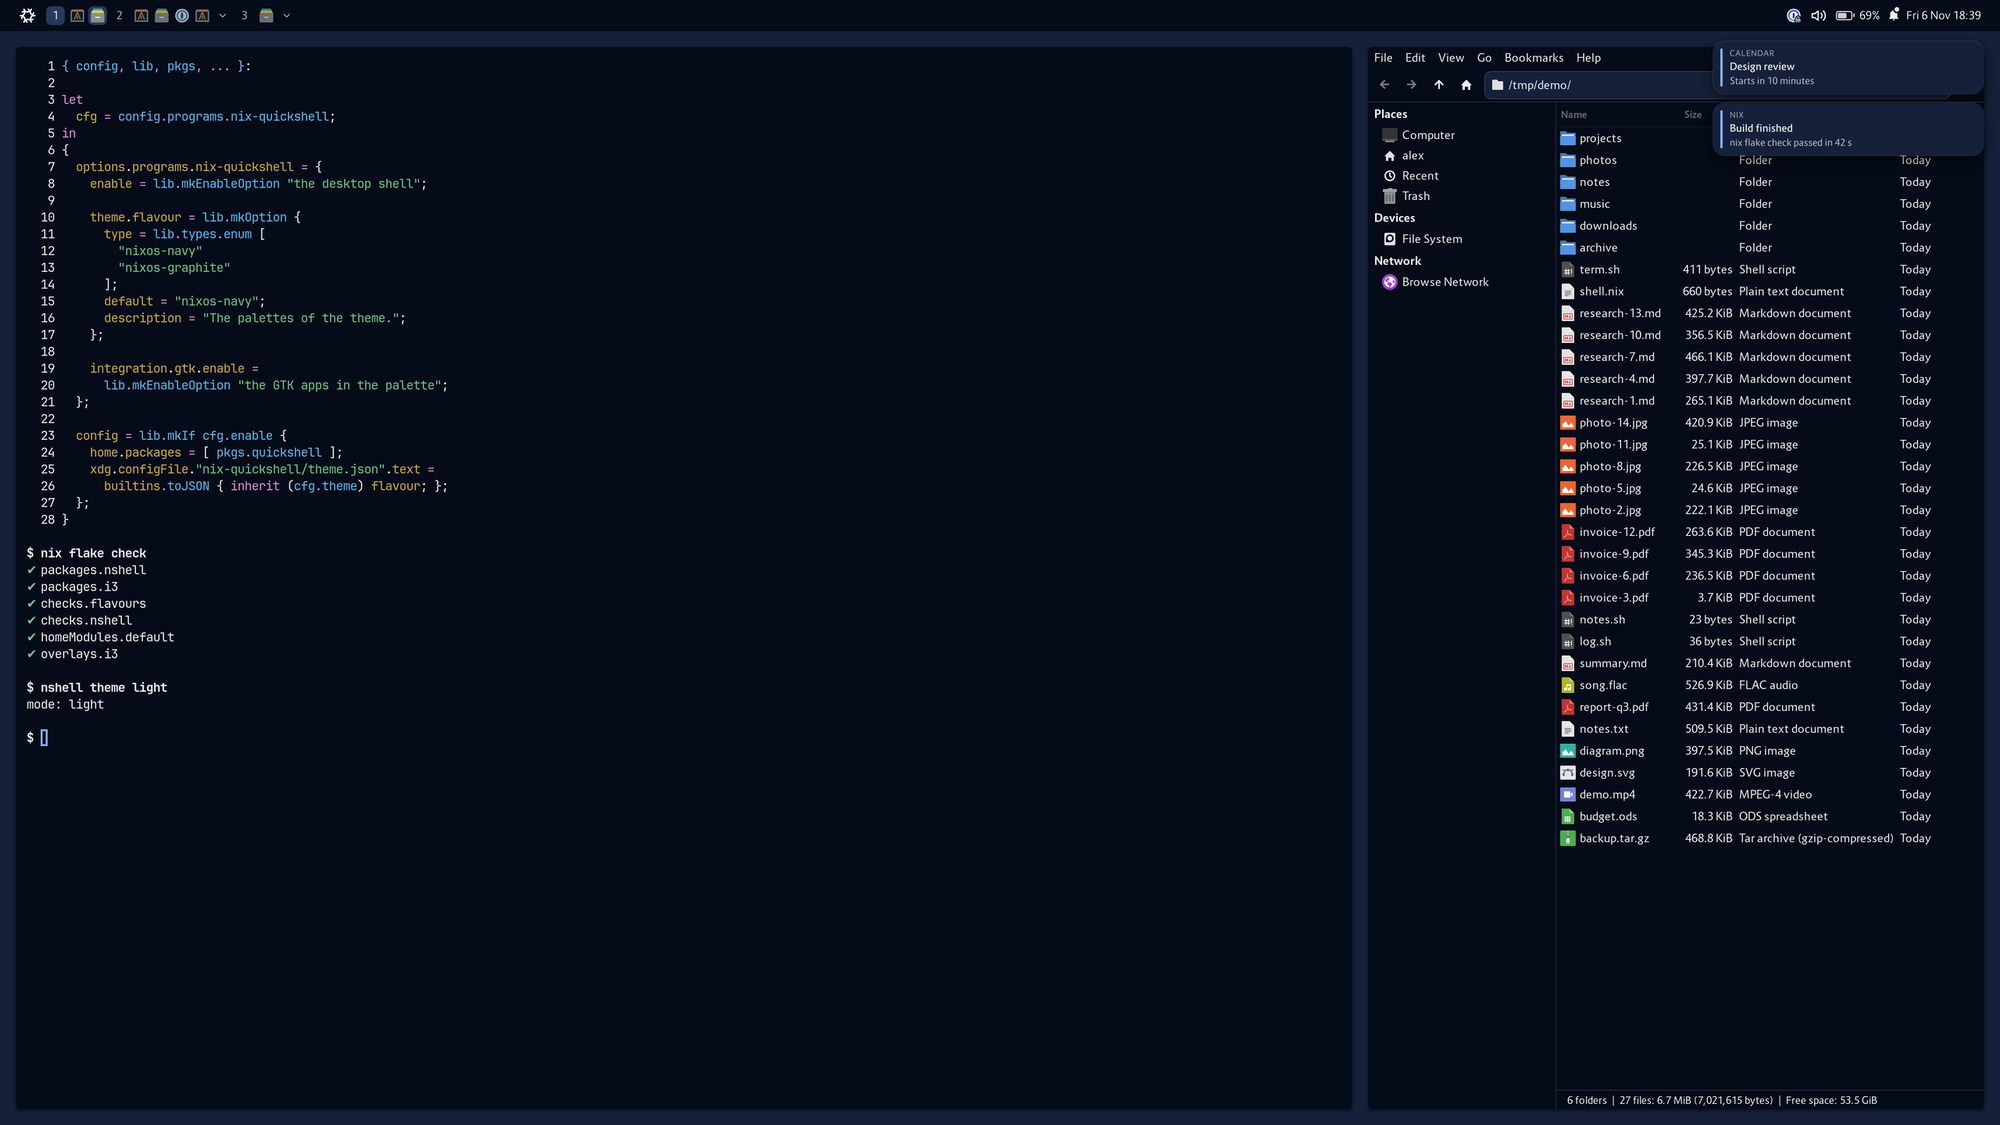
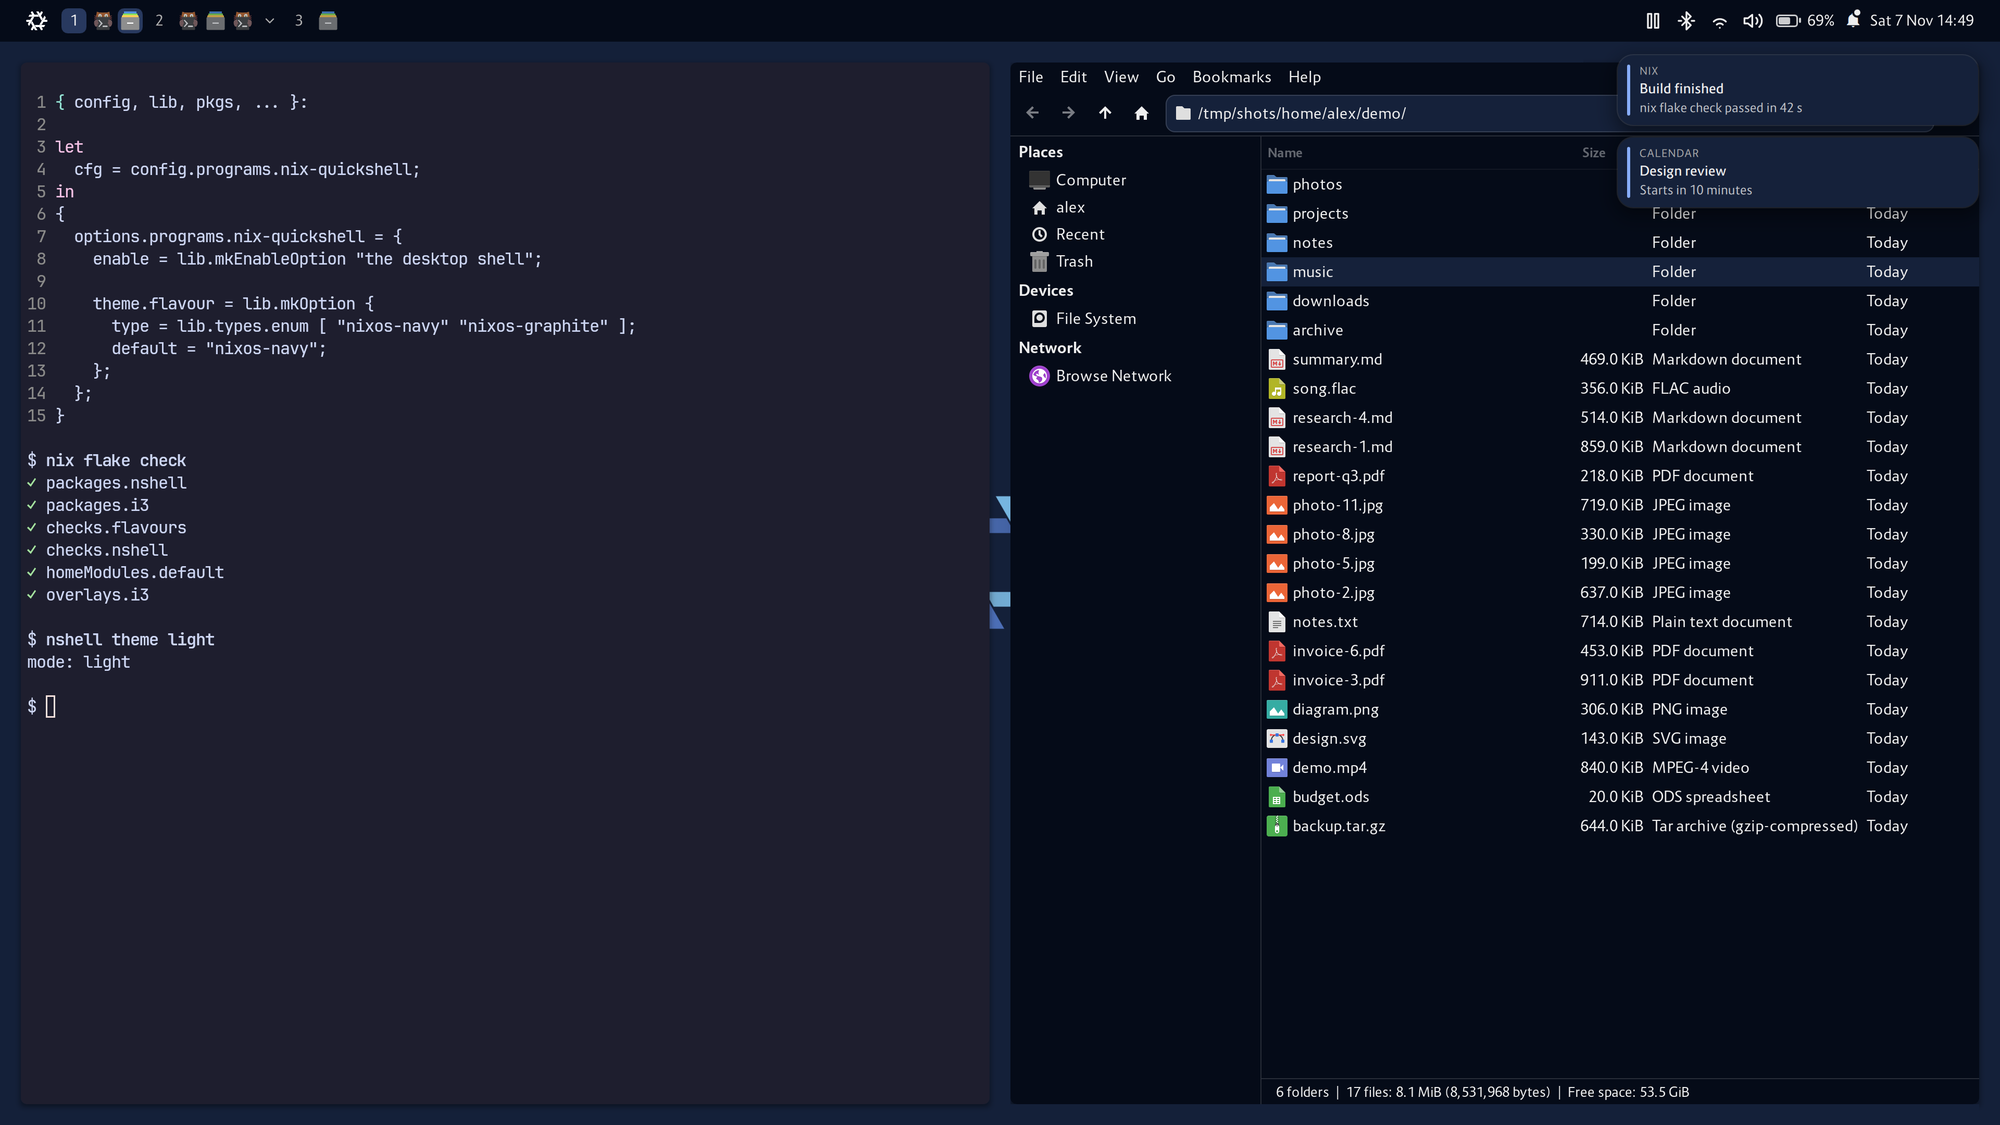
docs: new screenshots and a README that follows the shell as it is
The screenshots show the bar with its media, network, Bluetooth, sound and battery popups, the calendar, the notifications with their groups and progress,
the menu of the logo and the card of the session, the launcher and the tabs, in the dark and the light mode where it matters. They were taken in a
separate X server with a made-up user and mocks of NetworkManager, BlueZ and UPower, and no content of a real session.

The README has the bar as a list of its items, a picture beside each part, and the old wallpaper picture is gone: the first picture is the desktop.

diff --git a/README.md b/README.md
@@ -6,16 +6,17 @@
 [![License](https://img.shields.io/badge/License-GPL--3.0--or--later-blue.svg)](LICENSE)
 
 A desktop shell for NixOS on X11, written in QML for
-[Quickshell](https://quickshell.org). The bar, the notifications, the
-launcher, the volume pill and the polkit agent of an i3 session are one
+[Quickshell](https://quickshell.org). The bar and its popups (media, network,
+Bluetooth, sound, battery, calendar), the notifications, the launcher, the
+session menu, the volume pill and the polkit agent of an i3 session are one
 process, in the palette, the typeface and the logo of NixOS. A home-manager
 module makes the GTK apps, xterm, zathura, i3 and the wallpaper follow its
 dark and light mode.
 
 <p align="center">
   <picture>
-    <source media="(prefers-color-scheme: dark)" srcset="docs/img/wallpaper-dark.png">
-    <img src="docs/img/wallpaper-light.png" alt="The wallpaper and the bar, with the logomark of NixOS in the middle">
+    <source media="(prefers-color-scheme: dark)" srcset="docs/img/desktop-dark.png">
+    <img src="docs/img/desktop-light.png" alt="The shell on an i3 desktop: the bar, two toasts, a terminal and a file manager, in the palette of NixOS">
   </picture>
 </p>
 
@@ -46,23 +47,51 @@ one: it is an X11 shell, and runs wherever i3 does.
   same way. Its bell is the switch of do not disturb. Do not disturb also mutes the sound
   effects of chat apps (Vesktop, Discord) while it is on, see
   `modules/notifications/QuietSound.qml`.
-- **Bar.** The logo, the workspaces of i3, the tray (StatusNotifierItem) with
-  menus in the style of the shell, what is playing (any player that speaks
-  MPRIS: its title and artist, the cover, previous, play and pause, next, the
-  position, the icon of the app, which takes its window to the front, and the
-  other players), the network (with NetworkManager a cable or a Wi-Fi: the
-  networks to join, with a field for the password, and the right button turns
-  the Wi-Fi off and on; without it, the wired interface and its address), the Bluetooth (the devices
-  that are paired and the ones in range, to connect, disconnect, pair and
-  forget, with the battery of the one that says it), the sound (volume, mute, outputs), the
-  battery, the bell, with a dot when something came since the history was last
-  opened, and the clock, which opens a calendar of the month: the week starts
-  on Monday or Sunday, Left, Right and the wheel go from month to month, and
-  Today is the way back (`nshell calendar` opens it from a key).
+
+  <p align="center">
+    <img src="docs/img/notifications.png" alt="Toasts with a progress bar, actions and a critical one, and the history with a group of one app" width="830">
+  </p>
+- **Bar.** The logo, the workspaces of i3 with the windows in them (below), the
+  tray (StatusNotifierItem) with menus in the style of the shell, and a status
+  area of popups that share one look. An item is not there when the machine has
+  nothing for it (no player, no adapter, no battery).
+
+  <p align="center">
+    <picture>
+      <source media="(prefers-color-scheme: dark)" srcset="docs/img/bar-dark.png">
+      <img src="docs/img/bar-light.png" alt="The bar: the logo, three workspaces with their windows, and the status area" width="830">
+    </picture>
+  </p>
+
+  - **Media.** Any player that speaks MPRIS: its title and artist, the cover,
+    previous, play and pause, next, the position, the icon of the app, which
+    takes its window to the front, and the other players.
+  - **Network.** With NetworkManager a cable or a Wi-Fi: the networks to join,
+    with a field for the password, and the right button turns the Wi-Fi off and
+    on. Without it, the wired interface and its address.
+  - **Bluetooth.** The devices that are paired and the ones in range, to
+    connect, disconnect, pair and forget, with the battery of the one that says
+    it. A device that asks for a code cannot be paired: Quickshell has no
+    pairing agent.
+  - **Sound** (volume, mute, outputs), **battery**, the **bell**, with a dot when
+    something came since the history was last opened, and the **clock**, which
+    opens a calendar of the month: the week starts on Monday or Sunday, Left,
+    Right and the wheel go from month to month, and Today is the way back
+    (`nshell calendar` opens it from a key).
+
+  <p align="center">
+    <img src="docs/img/popups-1.png" alt="The calendar and the player" width="830"><br>
+    <img src="docs/img/popups-2.png" alt="The network and the Bluetooth" width="830"><br>
+    <img src="docs/img/popups-3.png" alt="The sound and the battery" width="830">
+  </p>
 - **The menu of the logo,** as the Apple menu: About This Computer, Applications…,
   the mode of the theme, Force Quit for the app that has the focus, Sleep,
   Restart…, Shut Down…, Lock Screen and Log Out…. The lines with dots ask once
   more, in a card in the middle of the screen.
+
+  <p align="center">
+    <img src="docs/img/menus.png" alt="The menu of the logo, and the card of the session" width="830">
+  </p>
 - **Session.** That card, with Lock, Log out, Suspend, Reboot and Power off, each
   with a key (the underlined letter), opens from a key with `nshell session`.
   Lock is only there when `session.lockCommand` is set: X11 has no lock screen
@@ -83,6 +112,10 @@ one: it is an X11 shell, and runs wherever i3 does.
   `nshell launcher windows`). An app that has a window is focused and not
   started again, by the `StartupWMClass` of its desktop entry, also from a key:
   `nshell launch brave-browser`. `nshell pick` is the same list for scripts.
+
+  <p align="center">
+    <img src="docs/img/launcher.png" alt="The launcher, on its list of windows" width="640">
+  </p>
 - **Volume OSD.** A pill at the bottom of the screen that shows the volume (or
   muted) for a moment when it changes, whatever changed it: the keys, the wheel
   on the bar, the slider, another app. It watches the sound, so there is no
@@ -97,7 +130,10 @@ one: it is an X11 shell, and runs wherever i3 does.
   data, see [Theme](#theme).
 
 <p align="center">
-  <img src="docs/img/tabs.png" alt="The list of the tabs of a workspace, hanging from its number in the bar" width="720">
+  <picture>
+    <source media="(prefers-color-scheme: dark)" srcset="docs/img/tabs-dark.png">
+    <img src="docs/img/tabs-light.png" alt="The list of the tabs of a workspace, hanging from its number in the bar" width="830">
+  </picture>
 </p>
 
 Not done yet: brightness (needs a screen with a backlight).
@@ -156,10 +192,8 @@ with a band of font height and 4 px above the tabbed containers. See
 ## Theme
 
 <p align="center">
-  <picture>
-    <source media="(prefers-color-scheme: dark)" srcset="docs/img/desktop-dark.png">
-    <img src="docs/img/desktop-light.png" alt="The shell: the bar, the toasts, a terminal and Thunar in the palette of NixOS">
-  </picture>
+  <img src="docs/img/bar-dark.png" alt="The bar in the dark mode" width="830"><br>
+  <img src="docs/img/bar-light.png" alt="The bar in the light mode" width="830">
 </p>
 
 The palettes are flavours, files of the package: `flavours/nixos-navy.json`
@@ -291,7 +325,9 @@ nix develop --command actionlint
 To try a change, run a copy of the shell over the installed one with
 `NSHELL_PATH=$PWD nshell`, with `XDG_STATE_HOME` and `NSHELL_THEME` pointing at
 a scratch folder and file, so that the saved history and mode are not touched.
-Use made-up values in tests and screenshots, and no real identifiers.
+Use made-up values in tests and screenshots, and no real identifiers: the ones of
+this page were taken in a separate X server with a made-up user and mocks of
+NetworkManager, BlueZ and UPower (see [`DESIGN.md`](DESIGN.md)).
 
 ## Releasing
 

diff --git a/DESIGN.md b/DESIGN.md
@@ -440,8 +440,14 @@ exported as `overlays.i3` and checked by `nix build .#i3`. See `docs/i3.md`.
 - A before and after of the rectangles of the windows, taken with their workspace in view, when anything touches the layout.
 - A second X server with a real i3 (`Xephyr`) for layout work. It has no compositor, so transparent windows look black there.
 - **A separate X server for what is clicked.** An `Xvfb` with its own i3, a private session bus, and a mock of a service on a private system bus (NetworkManager
-  or BlueZ, `tools/nm-mock.py` and `tools/bt-mock.py`): nothing that a test clicks, types or captures can reach the real screen, and the real shell is not replaced. It has no compositor, so a
-  transparent window is black there, and a look is still judged on the real screen.
+  or BlueZ, `tools/nm-mock.py` and `tools/bt-mock.py`): nothing that a test clicks, types or captures can reach the real screen, and the real shell is not replaced.
+- **The same lab, for the screenshots of the README.** At the size of the real screen (3840x2160, `Xft.dpi` 192), with `picom` on the `xrender` backend (the shadows and the
+  corners), a home of a made-up user that has only the settings of the real one (the GTK themes, the fonts, the theme file, the config of the terminal), a mock of UPower for
+  the battery, a null sound card of PipeWire for the sound, a made-up player on MPRIS and a folder of empty files for the file manager. The terminal and the file manager show
+  made-up text and names, and the shell reads nothing of the real session. Two things in it to know: the windows of a workspace that is not in view are not painted again
+  when the theme changes, so the windows are opened again after a change of mode and the shots are taken with the workspace in view for a few seconds; and a workspace that is
+  itself tabbed (`layout tabbed` on a window that is alone in the workspace) has all its windows unmapped while a floating window has the focus, which is i3 and not the shell, so
+  the tabs are in a container of their own (`split h` first).
 - A second copy of the shell on a private bus (`dbus-daemon`, `NSHELL_NO_BAR=1`, a private `XDG_STATE_HOME`) takes the notifications that a script sends, and a fake
   player that speaks MPRIS (a few lines of `dbus-next`, which logs what it is asked) takes the controls of the media popup.
 - Clicks of a test are sent only when no window of the shell is open on the real screen, and the test works on an empty workspace.
